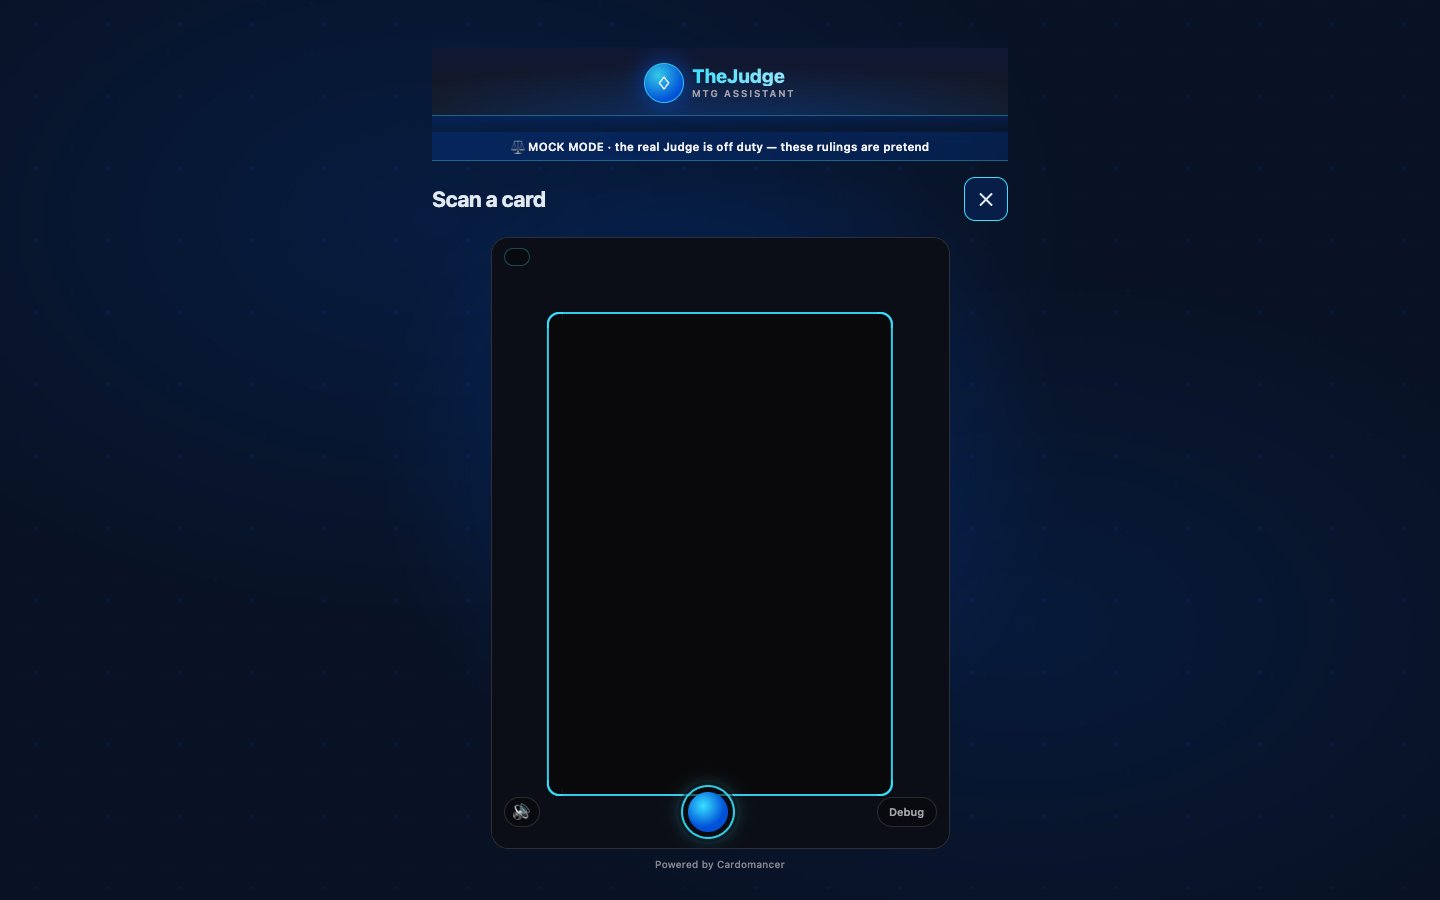
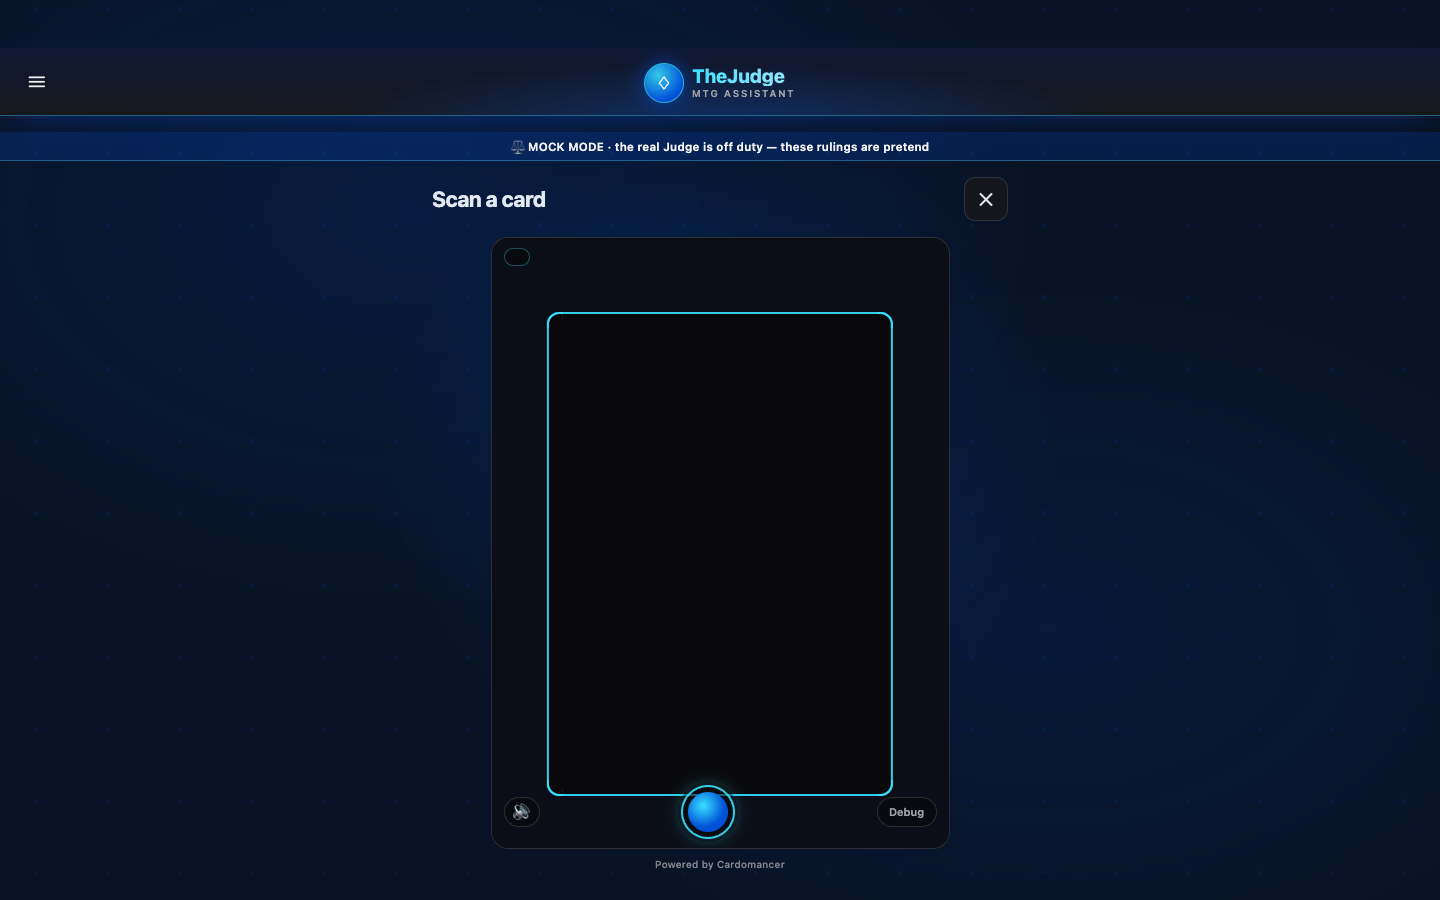
fix(ui-reimagining-build): review 1 — slice P scanner header clipped at desktop
Finding 1 (Critical, shared with slice O): same cause as Trade Balancer —
.page-content-narrow-fit's overflow:hidden clipped the scanner's full-bleed
header/(Menu) to its own narrower (36rem) column at 1440x900. Fixed by the
same apps/frontend/src/index.css change committed with slice O (overflow:hidden
removed from .page-content-narrow-fit too); this commit carries the scanner's
own recaptured pair and evidence.

Changed region(s): [[0.6562, 0.1244, 1.0, 0.2489], [0.0, 0.1244, 0.3125, 0.1867]]

diff --git a/PRD/work/ui-reimagining-build/slice-p.evidence.md b/PRD/work/ui-reimagining-build/slice-p.evidence.md
@@ -162,3 +162,24 @@ its one pre-existing line (`M scripts/lib/boundary-rules.mjs`).
   inside the guide) were rewritten to assert the new foot-row placement
   instead of being deleted, since the underlying behaviour (Debug reachable,
   mute reachable, the credit visible) still needs a regression guard.
+
+### Review 1 fix (2026-10-02)
+
+Review loop 1 (`REVIEW-1.md`) returned finding 1 (Critical, shared with slice
+O): at 1440×900 the scanner's full-bleed header and ☰ were clipped. Same
+root cause as slice O: `.page-content-narrow-fit` set `overflow: hidden` on
+a column narrower (36rem) than the viewport, clipping the header's
+full-bleed breakout to that column's own edges. Fixed by removing
+`overflow: hidden` from `.page-content-narrow-fit` in
+`apps/frontend/src/index.css` — `.page-shell-fit` (shared with slice O)
+still clips at `<main>`'s own viewport-wide edges, so the no-page-scroll fit
+(P9) is unchanged.
+
+Verified live at 1440×900: "Scan a card" header, ☰, and the 44px ✕ exit all
+render full-bleed and reachable, with the viewfinder panel fitting the
+viewport exactly as before. Recaptured
+`p/card-scan-build-{390x844,1440x900}.png` (390×844 was already correct per
+the reviewer and is unchanged by this fix; recaptured anyway for a
+consistent pair). P3 and P9 re-verified true by the recapture.
+
+Finding closed.
